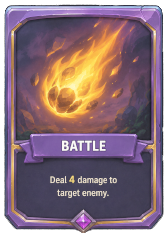
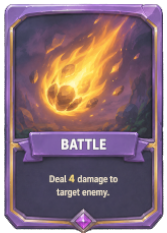
Restrict mulligan availability to the opening turn

diff --git a/tests/test_deck.py b/tests/test_deck.py
@@ -157,6 +157,44 @@ def test_mulligan_not_available_after_playing_mana_card():
     assert result.message == "Mulligan only available before playing a card"
 
 
+def test_mulligan_availability_is_removed_after_playing_card():
+    player_hero = Card("Player Hero", "Dark", 30)
+    hero_card = Card("Hero", "Nature", 10)
+    battle_state = BattleState(
+        player_hero,
+        [hero_card],
+        starting_hand_size=1,
+        shuffle_deck=False,
+    )
+
+    assert battle_state.can_mulligan()
+
+    battle_state.play_card_to_player_battlefield(hero_card)
+
+    assert not battle_state.can_mulligan()
+
+
+def test_mulligan_availability_is_removed_after_mulligan_used():
+    player_hero = Card("Player Hero", "Dark", 30)
+    deck_cards = [
+        Card("First", "Nature", 10),
+        Card("Second", "Tech", 10),
+        Card("Third", "Dark", 10),
+    ]
+    battle_state = BattleState(
+        player_hero,
+        deck_cards,
+        starting_hand_size=2,
+        shuffle_deck=False,
+    )
+
+    assert battle_state.can_mulligan()
+
+    battle_state.mulligan()
+
+    assert not battle_state.can_mulligan()
+
+
 def test_mulligan_not_available_after_playing_hero_card():
     player_hero = Card("Player Hero", "Dark", 30)
     hero_card = Card("Hero", "Nature", 10)

diff --git a/src/screens/battle.py b/src/screens/battle.py
@@ -160,7 +160,11 @@ class BattleScreen:
                 if result is not None:
                     self.handle_draw_result(result)
 
-            if event.button == 1 and self.mulligan_rect.collidepoint(event.pos):
+            if (
+                event.button == 1
+                and self.battle_state.can_mulligan()
+                and self.mulligan_rect.collidepoint(event.pos)
+            ):
                 result = self.battle_state.mulligan()
                 self.handle_mulligan_result(result)
 
@@ -457,7 +461,8 @@ class BattleScreen:
 
         self.draw_deck_info(screen)
 
-        self.draw_zone(screen, self.mulligan_rect, (230, 230, 230), "Mulligan", text_colour=(0, 0, 0))
+        if self.battle_state.can_mulligan():
+            self.draw_zone(screen, self.mulligan_rect, (230, 230, 230), "Mulligan", text_colour=(0, 0, 0))
         self.draw_next_phase_button(screen)
         self.draw_player_hero(screen)
         self.draw_enemy_hero(screen)

diff --git a/src/gameplay/battle_state.py b/src/gameplay/battle_state.py
@@ -100,6 +100,14 @@ class BattleState:
         self.turn_manager.advance_phase()
         return self.resolve_current_phase()
 
+    def can_mulligan(self):
+        return (
+            not self.has_used_mulligan
+            and self.turn_manager.turn_number == 1
+            and self.turn_manager.current_phase == "start"
+            and not self.has_played_card_this_game
+        )
+
     def mulligan(self):
         if self.has_used_mulligan:
             return PlayResult(False, "Mulligan already used")